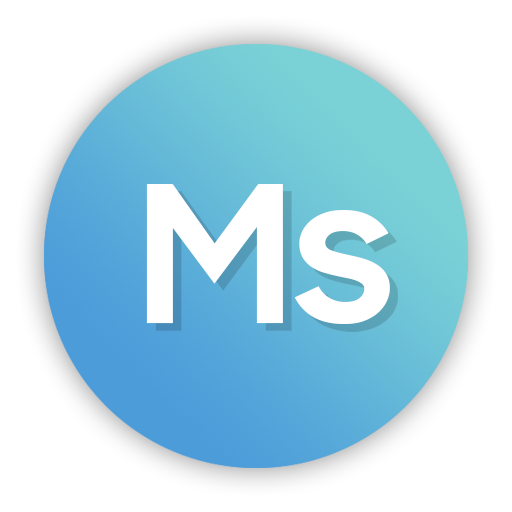
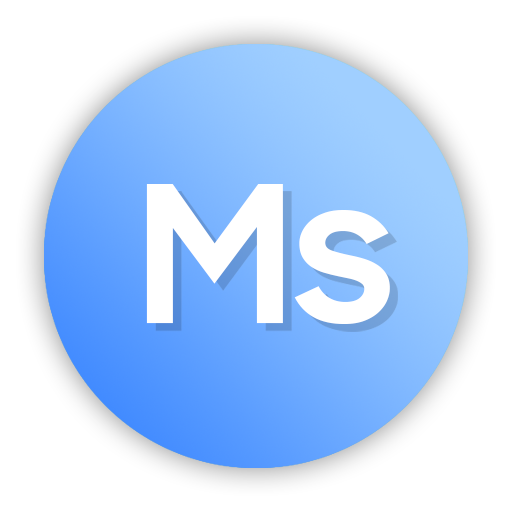
修改图标，完善登录页布局

diff --git a/css/mycss.css b/css/mycss.css
@@ -1,10 +1,28 @@
-QTextEdit,QLineEdit {
+#MainWidget {
+    background-color: white;
+}
+.QTextEdit,.QLineEdit {
     border: 1px solid #909399;
-    border-radius: 6px;
+    border-radius: 15px;
     padding-left: 10px;
     padding-right: 10px;
 }
 
-QTextEdit:focus,QLineEdit:focus {
+.QTextEdit:focus,.QLineEdit:focus {
     border: 1px solid #2979ff;
 }
+
+QPushButton#login_btn {
+    border-radius: 15px;
+    background-color: #2979ff;
+    color: white;
+}
+
+QPushButton#login_btn:hover {
+    background-color: #2b85e4;
+}
+
+QPushButton#login_btn:pressed {
+    background-color: #a0cfff;
+}
+

diff --git a/mainwidget.cpp b/mainwidget.cpp
@@ -1,5 +1,6 @@
 #include "mainwidget.h"
 #include "ui_mainwidget.h"
+#include "QMessageBox"
 
 MainWidget::MainWidget(QWidget *parent) :
     QWidget(parent),
@@ -12,4 +13,13 @@ MainWidget::MainWidget(QWidget *parent) :
 MainWidget::~MainWidget()
 {
     delete ui;
+}
+
+void MainWidget::on_login_btn_clicked()
+{
+    QString username = ui->username_edit->toPlainText();
+    QString password = ui->password_edit->text();
+    if (username.isEmpty() || password.isEmpty()) {
+        QMessageBox::information(this, "温馨提示", "请将内容输入完整", "确定");
+    }
 }

diff --git a/mainwidget.h b/mainwidget.h
@@ -15,6 +15,9 @@ public:
     explicit MainWidget(QWidget *parent = 0);
     ~MainWidget();
 
+private slots:
+    void on_login_btn_clicked();
+
 private:
     Ui::MainWidget *ui;
 };
